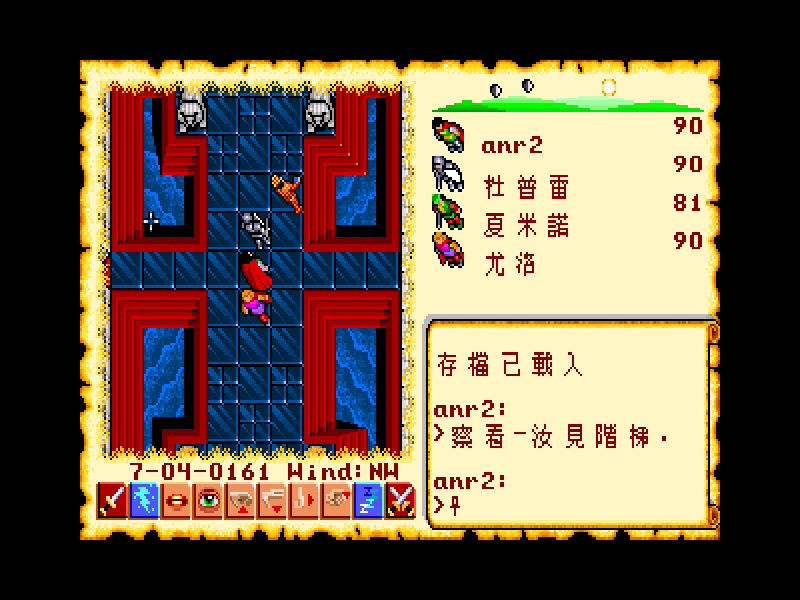
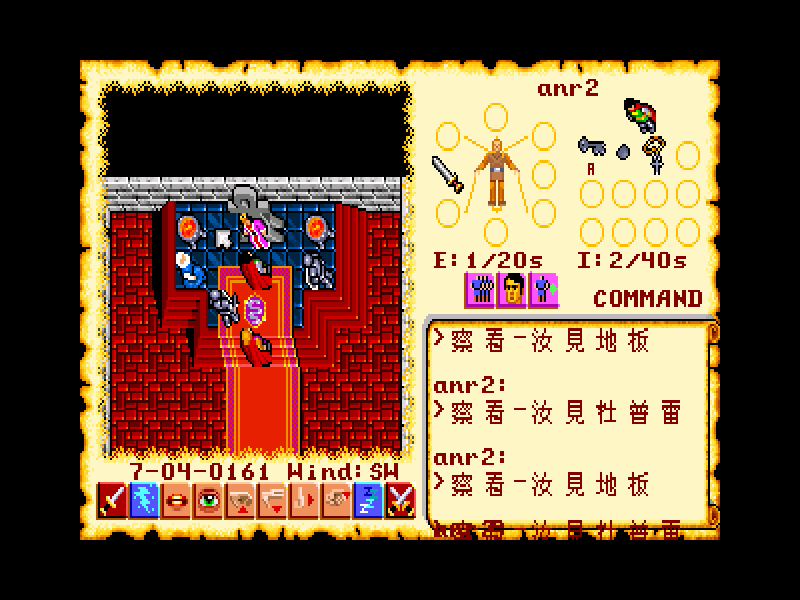
Refresh Look-command screenshots + caption fix
Screenshot agent audit found:
- 01_look_floor.png showed 「汝見階梯」 (stairs) instead of 「汝見地板」
  (floor) — re-captured with correct floor tile.
- 03_look_carpet.png — U6 王宮 carpet tile is classified as "floor"
  in engine, cannot Look as "carpet". Re-purposed slot to show
  Look NPC (尤洛) with portrait — demos NPC name CJK rendering.
- README L343 caption updated: "Look 地毯" → "Look NPC".
- All captions use the actual game prefix 「察看-」 for consistency.

Outstanding (MANUAL, not blocking):
- 09_intro_zh.png and 11_intro_caption1.png are md5-identical
  duplicates — need fresh capture of separate intro frames.
- 04/05 combat screenshots are generic; could be re-captured in
  a real combat encounter.

Changed region(s): [[0.125, 0.12, 0.875, 0.9]]

diff --git a/README.md b/README.md
@@ -340,11 +340,11 @@ Origin 認真為魔像族設計了一套可組合的語言：
 
 ### 群組 C：Look 命令系統
 
-| Look 地板 | Look 牆 | Look 地毯 |
+| Look 地板 | Look 牆 | Look NPC |
 |---|---|---|
-| ![floor](docs/screenshots/01_look_floor.png) | ![wall](docs/screenshots/02_look_wall.png) | ![carpet](docs/screenshots/03_look_carpet.png) |
-| *「汝見地板」* | *「汝見一面牆」* | *「汝見一張地毯」* |
-| *Big5 12px 渲染驗證* | *Big5 12px 渲染驗證* | *Big5 12px 渲染驗證* |
+| ![floor](docs/screenshots/01_look_floor.png) | ![wall](docs/screenshots/02_look_wall.png) | ![npc](docs/screenshots/03_look_carpet.png) |
+| *「察看-汝見地板」* | *「察看-汝見一面牆」* | *「察看-汝見尤洛」+ 角色面板「尤洛」* |
+| *Big5 12px 渲染驗證* | *Big5 12px 渲染驗證* | *NPC 名稱中文化* |
 
 ### 群組 D：戰鬥系統
 